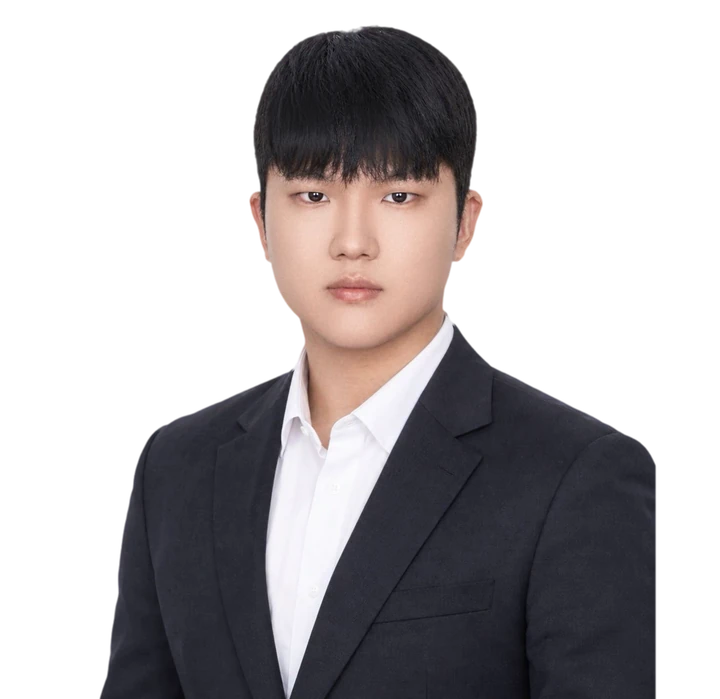
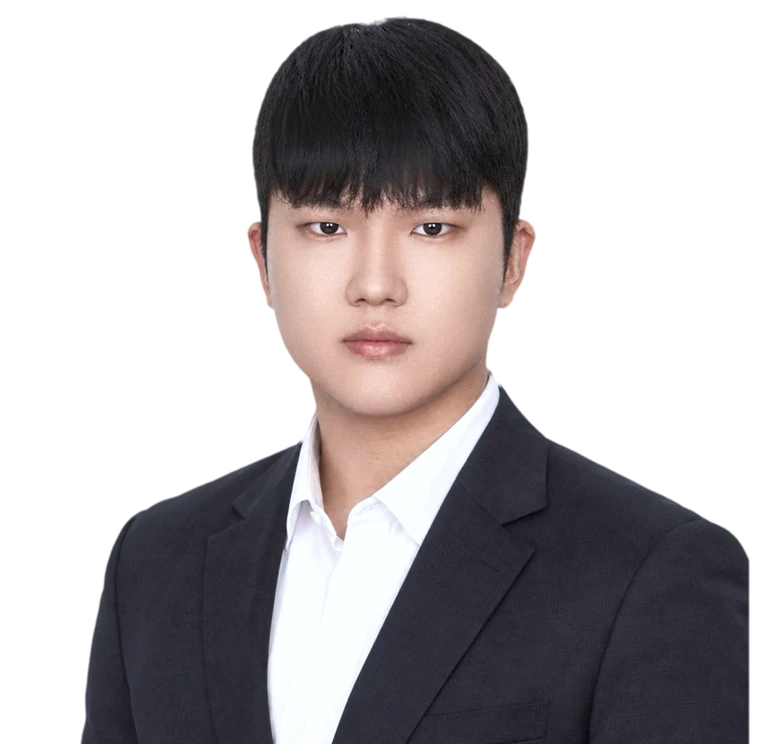
올케어: 원장 사진 뒤 원·상자 빼고 히어로 아래 선에 붙임 / 메이트랩: 히어로에 부원장 김소진 + 교재 34권 전부 아래로 길게 펼침 / 메인 머리띠 로고·글씨 줄이고 카톡 상담 뺌 / 논술 자체 교재에 학교별 기출 자료 추가 [skip netlify]
Claude-Session: https://claude.ai/code/session_011njH4Ur6oq6sieSq6qMimB

diff --git a/matelab.html b/matelab.html
@@ -66,9 +66,9 @@ a.tb-b:hover{color:#fff;background:rgba(255,255,255,.08)}
 .btn-cta:hover{background:var(--tl-dk);transform:translateY(-1px)}
 
 /* ══ HERO ══ */
-#hero{background:var(--ink);color:#fff;padding:84px 0 92px;overflow:hidden;position:relative}
+#hero{background:var(--ink);color:#fff;padding:84px 0 0;overflow:hidden;position:relative}
 #hero::after{content:'';position:absolute;right:-120px;top:-80px;width:520px;height:520px;border-radius:50%;background:radial-gradient(circle,rgba(46,147,166,.28),rgba(46,147,166,0) 70%);pointer-events:none}
-.hero-in{display:grid;grid-template-columns:1.1fr 1fr;gap:48px;align-items:center;position:relative;z-index:1}
+.hero-in{display:grid;grid-template-columns:1.1fr 1fr;gap:48px;align-items:end;position:relative;z-index:1}
 .hero-eyebrow{font-size:11px;font-weight:700;letter-spacing:.18em;color:var(--tl);margin-bottom:18px;display:flex;align-items:center;gap:10px}
 .hero-eyebrow::before{content:'';width:20px;height:1.5px;background:var(--tl);display:block}
 .hero-pill{display:inline-block;padding:6px 14px;border:1.5px solid rgba(255,255,255,.3);border-radius:99px;font-size:12.5px;font-weight:700;color:rgba(255,255,255,.85);margin-bottom:18px}
@@ -80,16 +80,14 @@ a.tb-b:hover{color:#fff;background:rgba(255,255,255,.08)}
 .hb:hover{transform:translateY(-2px)}
 .hb.ko{background:#F2C230;color:#3A2C00}.hb.en{background:#E7A3BC;color:#4A1B2E}.hb.ns{background:#9DB4D6;color:#14233A}.hb.web{background:transparent;color:#fff;border:1.5px solid rgba(255,255,255,.4)}
 .hb.web:hover{border-color:#fff}
-.fan{position:relative;height:360px}
-.hero-in>div:first-child{position:relative;z-index:2}
-.fan img{position:absolute;bottom:0;left:50%;width:min(30%,150px);border-radius:4px;box-shadow:0 18px 40px rgba(0,0,0,.45);transform-origin:50% 120%;opacity:0;transition:transform .9s cubic-bezier(.2,.7,.2,1),opacity .6s}
-.fan.in img{opacity:1}
-.fan.in img:nth-child(1){transform:translateX(-50%) rotate(-22deg) translateX(-96%)}
-.fan.in img:nth-child(2){transform:translateX(-50%) rotate(-11deg) translateX(-48%)}
-.fan.in img:nth-child(3){transform:translateX(-50%) rotate(0deg) translateY(-14px)}
-.fan.in img:nth-child(4){transform:translateX(-50%) rotate(11deg) translateX(48%)}
-.fan.in img:nth-child(5){transform:translateX(-50%) rotate(22deg) translateX(96%)}
-.fan img{transform:translateX(-50%) translateY(30px)}
+.hero-in>div:first-child{position:relative;z-index:2;padding-bottom:150px}
+.hero-person{justify-self:center;align-self:end;width:min(400px,100%);position:relative;margin:0;z-index:1}
+.hero-person img{display:block;width:100%;height:auto;filter:drop-shadow(0 18px 30px rgba(0,0,0,.4))}
+.hp-cap{position:absolute;right:4%;bottom:140px;z-index:3;font-size:13px;font-weight:800;color:#0B2A30;background:var(--tl);padding:6px 12px;border-radius:6px}
+.shelf{position:relative;z-index:2;height:250px;margin-top:-120px;overflow:hidden;background:linear-gradient(180deg,rgba(16,20,24,0) 0%,rgba(16,20,24,.85) 55%,#101418 100%)}
+.shelf img{position:absolute;left:50%;bottom:18px;width:110px;margin-left:-55px;border-radius:3px;box-shadow:0 10px 26px rgba(0,0,0,.5);transform-origin:50% 160%;opacity:0;transform:translateY(40px);transition:transform 1s cubic-bezier(.2,.7,.2,1),opacity .6s}
+.shelf.in img{opacity:1;transform:translateX(var(--x)) translateY(var(--y)) rotate(var(--r))}
+.shelf.in img:hover{transform:translateX(var(--x)) translateY(calc(var(--y) - 18px)) rotate(var(--r));transition-duration:.25s;z-index:200!important}
 
 /* ══ COMMON SECTION ══ */
 .sec{padding:84px 0}
@@ -132,6 +130,7 @@ section[id]{scroll-margin-top:70px}
 .sr-line{font-size:14px;font-weight:700;color:var(--c);margin-bottom:12px}
 .sr-desc{font-size:14px;color:var(--t2);line-height:1.8}
 .sr-cnt{display:inline-block;margin-top:12px;font-size:12px;font-weight:700;color:var(--t3);border:1px solid var(--ln);border-radius:99px;padding:3px 10px}
+.sr-note{align-self:center;font-size:14px;color:var(--t3);background:var(--bg,#F6F6F6);border-radius:8px;padding:18px 20px;line-height:1.7}
 .sr-books{display:flex;gap:18px;overflow-x:auto;padding:4px 2px 12px;scrollbar-width:thin;align-items:flex-start}
 .bk{flex:0 0 132px}
 .bk img{width:132px;height:auto;border-radius:3px;box-shadow:0 8px 18px rgba(0,0,0,.16);transition:transform .2s}
@@ -234,13 +233,15 @@ section[data-tab].tab-on{animation:tabIn .35s ease both}
   .hd-nav{order:3;width:100%;justify-content:space-between;border-top:1px solid var(--ln);margin-top:10px}
   .hd-nav a{flex:1;justify-content:center;height:44px;padding:0 6px;font-size:14px}
   .hero-in,.web-in{grid-template-columns:1fr}
-  .fan{height:300px;max-width:560px;width:100%;margin:0 auto}
+  .hero-person{width:min(330px,80%)}
+  .hero-in>div:first-child{padding-bottom:20px}
+  .shelf{height:200px;margin-top:-90px}.shelf img{width:92px;margin-left:-46px}
   .sr{grid-template-columns:1fr;gap:18px}
 }
 @media(max-width:768px){
   .wrap{padding:0 18px}
   .sec{padding:60px 0}
-  #hero{padding:52px 0 56px}
+  #hero{padding:52px 0 0}
   .tb-r{display:none}
   .hd-logo-s{display:none}
   .three{grid-template-columns:1fr}
@@ -257,11 +258,10 @@ section[data-tab].tab-on{animation:tabIn .35s ease both}
   #topbar .tb-b .pip,#topbar .tb-b span[style*="opacity"]{display:none}
   .hero-btns{display:grid;grid-template-columns:1fr 1fr;gap:8px}.hb{justify-content:center;padding:0 10px;font-size:13.5px}
   .three{grid-template-columns:1fr 1fr;gap:10px}.tc{padding:18px 16px 16px}.tc-p,.tc-tags{display:none}.tc-t{font-size:16.5px}.tc-lab{font-size:11.5px;margin-bottom:12px}.tc-go{font-size:12.5px}.tc-n{margin-bottom:6px}
-  .fan{height:230px}
   .books-in{grid-template-columns:1fr}
   .go-web{padding:20px}.go-btn{width:100%;justify-content:center}
   .btn-cta{padding:9px 12px;font-size:12.5px}
-  .fan{height:200px}
+  .shelf{height:170px;margin-top:-80px}.shelf img{width:78px;margin-left:-39px}
   .sec-head{margin-bottom:28px}
   .sr{padding:18px 16px;margin-bottom:10px}.sr-cnt{display:none}.sr-name{font-size:19px}.sr-desc{font-size:13.5px;line-height:1.7}
   .sr-books{margin:0 -16px;padding:4px 16px 8px;gap:12px}.bk{flex:0 0 98px}.bk img{width:98px}.bk b{font-size:12.5px}.bk span{font-size:11.5px}
@@ -312,14 +312,13 @@ section[data-tab].tab-on{animation:tabIn .35s ease both}
       <a href="#web" class="hb web">메이트랩 학습 웹</a>
     </div>
   </div>
-  <div class="fan" id="fan" aria-hidden="true">
-    <img src="img/matelab/kr-reading-1.webp" alt=""/>
-    <img src="img/matelab/kr-lit-1.webp" alt=""/>
-    <img src="img/matelab/nonsul-basic.webp" alt=""/>
-    <img src="img/matelab/en-micro-1.webp" alt=""/>
-    <img src="img/matelab/en-voca-intro.webp" alt=""/>
-  </div>
-</div></div></section>
+  <figure class="hero-person">
+    <img src="img/matelab/kim-sojin.webp" alt="부원장 김소진"/>
+    <figcaption class="hp-cap">부원장 김소진</figcaption>
+  </figure>
+</div></div>
+  <div class="shelf" id="shelf" aria-hidden="true"><img src="img/matelab/kr-gojeon-vocab-0630.webp" alt="" loading="eager"/><img src="img/matelab/kr-gojeonsiga.webp" alt="" loading="eager"/><img src="img/matelab/kr-grammar-basic.webp" alt="" loading="eager"/><img src="img/matelab/kr-grammar-theory.webp" alt="" loading="eager"/><img src="img/matelab/kr-lit-1.webp" alt="" loading="eager"/><img src="img/matelab/kr-lit-2.webp" alt="" loading="eager"/><img src="img/matelab/kr-lit-3.webp" alt="" loading="eager"/><img src="img/matelab/kr-lit-concept-0301.webp" alt="" loading="eager"/><img src="img/matelab/kr-practice-1.webp" alt="" loading="eager"/><img src="img/matelab/kr-practice-2.webp" alt="" loading="eager"/><img src="img/matelab/kr-practice-3.webp" alt="" loading="eager"/><img src="img/matelab/kr-practice-4.webp" alt="" loading="eager"/><img src="img/matelab/kr-practice-5.webp" alt="" loading="eager"/><img src="img/matelab/kr-practice-6.webp" alt="" loading="eager"/><img src="img/matelab/kr-practice-7.webp" alt="" loading="eager"/><img src="img/matelab/kr-reading-1.webp" alt="" loading="eager"/><img src="img/matelab/kr-reading-2.webp" alt="" loading="eager"/><img src="img/matelab/kr-reading-3.webp" alt="" loading="eager"/><img src="img/matelab/kr-vocab-1114.webp" alt="" loading="eager"/><img src="img/matelab/nonsul-basic.webp" alt="" loading="eager"/><img src="img/matelab/nonsul-type.webp" alt="" loading="eager"/><img src="img/matelab/nonsul-theme.webp" alt="" loading="eager"/><img src="img/matelab/en-grammar-all.webp" alt="" loading="eager"/><img src="img/matelab/en-grammar-one.webp" alt="" loading="eager"/><img src="img/matelab/en-macro-1.webp" alt="" loading="eager"/><img src="img/matelab/en-macro-2.webp" alt="" loading="eager"/><img src="img/matelab/en-macro-3.webp" alt="" loading="eager"/><img src="img/matelab/en-micro-1.webp" alt="" loading="eager"/><img src="img/matelab/en-micro-2.webp" alt="" loading="eager"/><img src="img/matelab/en-micro-3.webp" alt="" loading="eager"/><img src="img/matelab/en-type-skill.webp" alt="" loading="eager"/><img src="img/matelab/en-voca-adv.webp" alt="" loading="eager"/><img src="img/matelab/en-voca-basic.webp" alt="" loading="eager"/><img src="img/matelab/en-voca-intro.webp" alt="" loading="eager"/></div>
+</section>
 
 <!-- ABOUT: 세 갈래 -->
 <section id="about" class="sec"><div class="wrap">
@@ -342,8 +341,8 @@ section[data-tab].tab-on{animation:tabIn .35s ease both}
       <span class="tc-go">영어 교재 보기 →</span>
     </a>
     <a href="#ns" class="tc reveal" style="--c:var(--ns);--cb:var(--ns-bg);transition-delay:.14s">
-      <div class="tc-n">03</div><div class="tc-t">논술 자체 교재</div><div class="tc-lab">메이트논술연구소 · 3권</div>
-      <p class="tc-p">기본편에서 유형편, 주제편까지 단계별로 쌓아 가는 인문논술 교재입니다.</p>
+      <div class="tc-n">03</div><div class="tc-t">논술 자체 교재</div><div class="tc-lab">메이트논술연구소 · 3권 + 학교별 기출</div>
+      <p class="tc-p">기본편에서 유형편, 주제편까지 단계별로 쌓아 가는 인문논술 교재와 학교별 기출 자료입니다.</p>
       <div class="tc-tags"><span>기본</span><span>유형</span><span>주제</span></div>
       <span class="tc-go">논술 교재 보기 →</span>
     </a>
@@ -388,11 +387,12 @@ section[data-tab].tab-on{animation:tabIn .35s ease both}
   <div class="sec-head">
     <div class="sec-label">메이트논술연구소</div>
     <h2 class="sec-h2">논술 <em>자체 교재</em></h2>
-    <p class="sec-desc">기본에서 유형, 주제까지 — 단계별로 쌓는 인문논술 교재입니다.</p>
+    <p class="sec-desc">기본에서 유형, 주제까지 단계별로 쌓는 인문논술 교재와, 대학별로 정리한 기출 자료를 함께 씁니다.</p>
   </div>
   <div class="lineup"><div class="lu-t">라인업 한눈에 보기 <small>누르면 크게 보입니다</small></div><div class="lu-row"><button type="button" class="lu zoom" data-g="NS"><img src="img/matelab/poster-nonsul.webp" alt="인문논술 라인업" loading="lazy"/><span>인문논술</span></button></div></div>
   <h3 class="grp-t">인문논술 <small>기본편 · 유형편 · 주제편</small></h3>
   <article class="sr reveal"><div class="sr-info"><span class="sr-area">인문논술</span><h3 class="sr-name">인문논술 기본편 · 유형편 · 주제편</h3><p class="sr-line">기본에서 유형, 주제까지 — 단계별로 쌓는 인문논술</p><p class="sr-desc">처음 논술을 시작하는 학생은 기본편에서 제시문을 읽고 답안을 쓰는 기본기를 익힙니다. 유형편에서는 논제 유형별로 답안을 구성하는 방법을, 주제편에서는 자주 다루어지는 주제별로 생각의 폭을 넓힙니다.</p><span class="sr-cnt">3권</span></div><div class="sr-books"><figure class="bk"><img src="img/matelab/nonsul-basic.webp" alt="인문논술 기본편 표지" loading="lazy" width="360" height="509"/><figcaption><b>인문논술 기본편</b><span>처음 시작하는 인문논술</span></figcaption></figure><figure class="bk"><img src="img/matelab/nonsul-type.webp" alt="인문논술 유형편 표지" loading="lazy" width="360" height="509"/><figcaption><b>인문논술 유형편</b><span>유형별로 익히는 인문논술</span></figcaption></figure><figure class="bk"><img src="img/matelab/nonsul-theme.webp" alt="인문논술 주제편 표지" loading="lazy" width="360" height="509"/><figcaption><b>인문논술 주제편</b><span>주제별로 넓히는 인문논술</span></figcaption></figure></div></article>
+  <article class="sr reveal"><div class="sr-info"><span class="sr-area">기출</span><h3 class="sr-name">학교별 기출 자료</h3><p class="sr-line">지원 대학에 맞춘 실전 준비</p><p class="sr-desc">대학마다 제시문 구성과 논제 방식이 다르기 때문에, 대학별 기출 문제를 학교별로 정리한 자료로 실전 연습을 합니다. 학생이 지원하는 대학에 맞춰 골라 씁니다.</p><span class="sr-cnt">대학별</span></div><div class="sr-note">교재와 함께 수업에서 학교별 기출 자료를 나눠 드립니다.</div></article>
 </div></section>
 
 <!-- WEB -->
@@ -469,7 +469,12 @@ section[data-tab].tab-on{animation:tabIn .35s ease both}
   document.addEventListener('keydown',function(e){if(!lb.classList.contains('on'))return;if(e.key==='Escape')close();if(e.key==='ArrowLeft')P.click();if(e.key==='ArrowRight')N.click();});
 })();
 (function(){
-  var fan=document.getElementById('fan');requestAnimationFrame(function(){setTimeout(function(){fan.classList.add('in');},120);});
+  /* 교재 전부 펼치기: 가운데(논술)에서 양쪽으로 부채꼴 */
+  var sh=document.getElementById('shelf'),bk=[].slice.call(sh.querySelectorAll('img'));
+  function lay(){var n=bk.length,c=(n-1)/2,w=sh.clientWidth,bw=bk[0].offsetWidth||110,step=Math.max(w<600?20:0,(Math.min(w,1500)-bw)/(n-1)*0.98);
+    bk.forEach(function(im,i){var d=i-c;im.style.setProperty('--x',(d*step)+'px');im.style.setProperty('--y',(Math.abs(d)*Math.abs(d)*0.09)+'px');im.style.setProperty('--r',(d*1.1)+'deg');im.style.zIndex=100-Math.round(Math.abs(d));im.style.transitionDelay=(Math.abs(d)*18)+'ms';});}
+  lay();window.addEventListener('resize',lay);
+  requestAnimationFrame(function(){setTimeout(function(){sh.classList.add('in');},150);});
   var obs=new IntersectionObserver(function(es){es.forEach(function(e){if(e.isIntersecting){e.target.classList.add('in');obs.unobserve(e.target);}});},{threshold:.08});
   document.querySelectorAll('.reveal').forEach(function(el){obs.observe(el);});
   /* 패밀리 드롭다운: 바깥 클릭 시 닫기 */

diff --git a/index.html b/index.html
@@ -25,10 +25,10 @@
 body{font-family:'Noto Sans KR',sans-serif;-webkit-font-smoothing:antialiased;word-break:keep-all;overflow-x:clip;background:#F4F4F2;color:#111}
 .wrap{width:100%;max-width:1160px;margin:0 auto;padding:0 28px}
 .brand{background:#111;color:#fff}
-.brand .wrap{max-width:1240px;display:flex;align-items:center;justify-content:space-between;gap:20px;padding-top:30px;padding-bottom:28px}
-.brand .lg{display:flex;align-items:center;gap:18px}.brand .lg svg{width:76px;height:auto}
-.brand h1{font-size:62px;font-weight:900;letter-spacing:-.05em;line-height:1}.brand h1 span{color:#E8601A}
-.brand .eb{font-size:15px;font-weight:700;color:rgba(255,255,255,.6);margin-top:8px;letter-spacing:.02em}
+.brand .wrap{max-width:1240px;display:flex;align-items:center;justify-content:flex-start;gap:20px;padding-top:20px;padding-bottom:18px}
+.brand .lg{display:flex;align-items:center;gap:14px}.brand .lg svg{width:54px;height:auto}
+.brand h1{font-size:42px;font-weight:900;letter-spacing:-.05em;line-height:1}.brand h1 span{color:#E8601A}
+.brand .eb{font-size:13px;font-weight:700;color:rgba(255,255,255,.6);margin-top:6px;letter-spacing:.02em}
 .brand .r{text-align:right;font-size:13px;color:rgba(255,255,255,.55);line-height:1.8}.brand .r b{color:#fff}.brand .r a:hover{color:#FFB98F}
 .split{display:grid;grid-template-columns:1fr 1fr}
 .half{position:relative;overflow:hidden;color:#fff;background:var(--c);display:flex;flex-direction:column;padding:48px 0 0;transition:background .5s}
@@ -48,9 +48,9 @@ body{font-family:'Noto Sans KR',sans-serif;-webkit-font-smoothing:antialiased;wo
 .half:hover .team img{transform:scale(1.05)}
 .slogan{background:#E8601A;color:#fff;text-align:center;font-size:clamp(28px,4.4vw,52px);font-weight:900;letter-spacing:-.04em;padding:26px 16px}
 .more{padding:44px 0 10px}.more h3{font-size:22px;font-weight:900;letter-spacing:-.03em;margin-bottom:16px}
-@media(max-width:900px){.brand h1{font-size:46px}.brand .lg svg{width:58px}.brand .r{display:none}.half .tx{padding:0 30px}.half b{font-size:44px}}
+@media(max-width:900px){.brand h1{font-size:38px}.brand .lg svg{width:48px}.brand .r{display:none}.half .tx{padding:0 30px}.half b{font-size:44px}}
 @media(max-width:720px){.wrap{padding:0 18px}
-.brand .wrap{padding-top:22px;padding-bottom:20px;justify-content:center}.brand .lg{gap:12px}.brand .lg svg{width:50px}.brand h1{font-size:44px}.brand .eb{font-size:13px;margin-top:6px}
+.brand .wrap{padding-top:22px;padding-bottom:20px;justify-content:center}.brand .lg{gap:12px}.brand .lg svg{width:42px}.brand h1{font-size:34px}.brand .eb{font-size:13px;margin-top:6px}
 .split{grid-template-columns:1fr}.half{padding-top:26px}.half .tx{padding:0 22px}.half b{font-size:38px}.half .inf{margin-top:6px;font-size:13px}.half .go{margin-top:12px;padding:10px 18px;font-size:14px}.half .team{margin-top:16px}.half .team img{width:100%}
 .slogan{font-size:30px;padding:20px 12px}.more{padding-top:30px}}
 @media(prefers-reduced-motion:reduce){.half,.half *,.half::before,.half::after{transition:none!important}}
@@ -72,7 +72,7 @@ footer{margin-top:44px;background:#111;color:rgba(255,255,255,.55);padding:22px 
 </style>
 </head>
 <body>
-<header class="brand"><div class="wrap"><div class="lg"><svg viewBox="0 0 2000 1765" aria-hidden="true"><circle cx="845" cy="187" r="187" fill="#EA5514"/><circle cx="1458" cy="187" r="187" fill="#fff"/><path d="M506 498H1120L989 820H801L466 1125H678L425 1765H0Z" fill="#EA5514"/><path d="M1120 498H2000L1870 820H1415L1039 1765H613L989 820Z" fill="#fff"/><path d="M1542 940L1870 1765H1445L1329 1465Z" fill="#fff"/></svg><div><h1>메이트<span>학원</span></h1><div class="eb">고등 내신·수능 단과 학원</div></div></div><div class="r">카카오톡 상담<br/><b><a href="http://pf.kakao.com/_AALWX/chat" target="_blank" rel="noopener">목동관</a> · <a href="http://pf.kakao.com/_xfAZaX/chat" target="_blank" rel="noopener">김포관</a></b></div></div></header>
+<header class="brand"><div class="wrap"><div class="lg"><svg viewBox="0 0 2000 1765" aria-hidden="true"><circle cx="845" cy="187" r="187" fill="#EA5514"/><circle cx="1458" cy="187" r="187" fill="#fff"/><path d="M506 498H1120L989 820H801L466 1125H678L425 1765H0Z" fill="#EA5514"/><path d="M1120 498H2000L1870 820H1415L1039 1765H613L989 820Z" fill="#fff"/><path d="M1542 940L1870 1765H1445L1329 1465Z" fill="#fff"/></svg><div><h1>메이트<span>학원</span></h1><div class="eb">고등 내신·수능 단과 학원</div></div></div></div></header>
 <main><div class="split"><a class="half mok" href="mokdong.html" style="--c:#125E32;--c2:#17703D"><div class="tx"><small>서울 양천구</small><b>목동관</b><i>에듀메이트학원</i><div class="inf">목동동로8길 17, 3층 · 02-6736-9505</div><span class="go">목동관 홈페이지 <em>→</em></span></div><div class="team"><img src="img/main/team-mokdong-1400.webp" srcset="img/main/team-mokdong-700.webp 700w, img/main/team-mokdong-1400.webp 1400w" sizes="(max-width:720px) 100vw, 560px" alt="목동관 선생님들"/></div></a><a class="half gim" href="gimpo.html" style="--c:#0C357F;--c2:#11449E"><div class="tx"><small>경기 김포시</small><b>김포관</b><i>너를위한메이트학원</i><div class="inf">사우중로 92, 3층 · 031-8049-0716</div><span class="go">김포관 홈페이지 <em>→</em></span></div><div class="team"><img src="img/main/team-gimpo-1400.webp" srcset="img/main/team-gimpo-700.webp 700w, img/main/team-gimpo-1400.webp 1400w" sizes="(max-width:720px) 100vw, 560px" alt="김포관 선생님들"/></div></a></div>
 <div class="slogan">너와 함께, 정상으로!</div>
 <div class="wrap more"><h3>당신을 위한 메이트교육</h3><div class="exs"><a class="ex lab" href="matelab.html" style="--c:#2E93A6"><span class="ex-ic"><svg viewBox="0 0 2000 1765" aria-hidden="true" fill="currentColor"><circle cx="845" cy="187" r="187"/><circle cx="1458" cy="187" r="187"/><path d="M506 498H1120L989 820H801L466 1125H678L425 1765H0Z"/><path d="M1120 498H2000L1870 820H1415L1039 1765H613L989 820Z"/><path d="M1542 940L1870 1765H1445L1329 1465Z"/></svg></span><b>메이트랩</b><em>자체 교재 · 학습 웹</em><p>국어·영어·인문논술 자체 교재와 어휘 학습 웹</p><span class="ex-go">보러 가기 →</span><span class="ex-who"><img src="img/main/kim-sojin-card.webp" alt=""/><i>부원장 김소진</i></span></a><a class="ex care" href="allcare.html" style="--c:#E2A03F"><span class="ex-ic"><svg viewBox="0 0 120 120" aria-hidden="true"><path d="M24 92 V24 L60 60 L96 24 V92" fill="none" stroke="currentColor" stroke-width="20" stroke-linejoin="round"/><path d="M60 60 V92" fill="none" stroke="currentColor" stroke-width="20"/><rect x="14" y="100" width="92" height="10" rx="3" fill="#E2A03F"/></svg></span><b>메이트 올케어</b><em>국·수·영 수강생 학습 관리</em><p>담임 컨설턴트의 주간 학습 관리와 입시 컨설팅</p><span class="ex-go">보러 가기 →</span><span class="ex-who"><img src="img/main/kim-dongwan-card.webp" alt=""/><i>원장 김동완</i></span></a><a class="ex yt" href="https://www.youtube.com/@onmate-study" target="_blank" rel="noopener" style="--c:#E8601A"><span class="ex-ic"><svg viewBox="0 0 52 52" aria-hidden="true"><rect x="2" y="8" width="48" height="36" rx="10" fill="none" stroke="currentColor" stroke-width="4"/><path d="M22 18 L35 26 L22 34 Z" fill="currentColor"/></svg></span><b>YouTube 채널</b><em>해설강의 영상</em><p>메이트 선생님들의 해설강의를 영상으로</p><span class="ex-go">채널 열기 ↗</span></a></div></div></main>

diff --git a/allcare.html b/allcare.html
@@ -63,7 +63,8 @@ a.tb-b:hover{color:#fff;background:rgba(255,255,255,.08)}
 .btn-cta:hover{background:var(--nv2);transform:translateY(-1px)}
 
 /* ══ HERO ══ */
-#hero{background:var(--nv);color:var(--cr);padding:88px 0 96px;overflow:hidden}
+#hero{background:var(--nv);color:var(--cr);padding:88px 0 0;overflow:hidden}
+.hero-in>div:first-child{padding-bottom:96px}
 .hero-in{display:grid;grid-template-columns:1.3fr 1fr;gap:56px;align-items:center}
 .hero-eyebrow{font-size:11px;font-weight:700;letter-spacing:.18em;text-transform:uppercase;color:var(--gd);margin-bottom:18px;display:flex;align-items:center;gap:10px}
 .hero-eyebrow::before{content:'';width:20px;height:1.5px;background:var(--gd);display:block}
@@ -75,12 +76,9 @@ a.tb-b:hover{color:#fff;background:rgba(255,255,255,.08)}
 .btn-gd:hover{background:#ECB25A;transform:translateY(-2px)}
 .btn-gh{border:1.5px solid rgba(255,255,255,.22);color:rgba(255,255,255,.8);font-size:14px;font-weight:600;padding:11.5px 20px;border-radius:4px;display:inline-flex;align-items:center;gap:8px;transition:border-color .2s,color .2s}
 .btn-gh:hover{border-color:rgba(255,255,255,.55);color:#fff}
-.hero-person{justify-self:center;width:min(360px,92%);position:relative;margin:0}
-.hp-box{position:relative;aspect-ratio:1/1.08;border-radius:18px;background:radial-gradient(120% 90% at 50% 100%,#22385A 0%,var(--nv2) 60%);overflow:hidden;box-shadow:0 30px 60px rgba(0,0,0,.25)}
-.hp-box::before{content:'';position:absolute;left:50%;top:44%;width:78%;aspect-ratio:1;border-radius:50%;border:2px solid rgba(226,160,63,.55);transform:translate(-50%,-50%)}
-.hp-m{position:absolute;left:18px;top:18px;width:38px;height:38px;opacity:.9}
-.hp-box img{position:absolute;left:50%;bottom:0;width:104%;transform:translateX(-50%);filter:drop-shadow(0 10px 20px rgba(0,0,0,.35))}
-.hp-cap{text-align:center;margin-top:12px;font-size:13px;font-weight:700;color:var(--on1);letter-spacing:.02em}
+.hero-person{justify-self:center;align-self:end;width:min(420px,100%);position:relative;margin:0}
+.hero-person img{display:block;width:100%;height:auto;filter:drop-shadow(0 18px 30px rgba(0,0,0,.35))}
+.hp-cap{position:absolute;right:6%;bottom:26px;font-size:13px;font-weight:800;color:var(--nv);background:var(--gd);padding:6px 12px;border-radius:6px}
 
 /* ══ SECTION 공통 ══ */
 .sec{padding:84px 0}
@@ -217,14 +215,15 @@ a.tb-b:hover{color:#fff;background:rgba(255,255,255,.08)}
 @media(max-width:1024px){
   .hd-nav{display:none}
   .hero-in,.sys,.why{grid-template-columns:1fr}
-  .hero-person{grid-row:2;width:min(300px,78%);margin-top:8px}
+  .hero-person{grid-row:2;width:min(320px,82%);margin-top:4px}
+  .hero-in>div:first-child{padding-bottom:12px}
   .flow{grid-template-columns:repeat(2,1fr)}
   .flow li:last-child{grid-column:span 2}
 }
 @media(max-width:768px){
   .wrap{padding:0 18px}
   .sec{padding:60px 0}
-  #hero{padding:56px 0 64px}
+  #hero{padding:56px 0 0}
   .ac-grid,.tg{grid-template-columns:1fr}#lb{padding:56px 8px 72px}.lb-p,.lb-n{top:auto;bottom:10px;margin:0}.lb-p{left:calc(50% - 110px)}.lb-n{right:calc(50% - 110px)}.lb-c{bottom:24px}
   .tb-r{display:none}
   .tb-b{padding:0 9px;font-size:12px}
@@ -343,10 +342,7 @@ section[id]{scroll-margin-top:70px}
     </div>
   </div>
   <figure class="hero-person">
-    <div class="hp-box">
-      <svg class="hp-m" viewBox="0 0 120 120" aria-hidden="true"><path d="M24 92 V24 L60 60 L96 24 V92" fill="none" stroke="#F3F1EB" stroke-width="20" stroke-linejoin="round"/><path d="M60 60 V92" fill="none" stroke="#F3F1EB" stroke-width="20"/><rect x="14" y="100" width="92" height="10" rx="3" fill="#E2A03F"/></svg>
-      <img src="img/allcare/kim-dongwan.webp" alt="원장 김동완"/>
-    </div>
+    <img src="img/allcare/kim-dongwan.webp" alt="원장 김동완"/>
     <figcaption class="hp-cap">원장 김동완</figcaption>
   </figure>
 </div></div></section>
